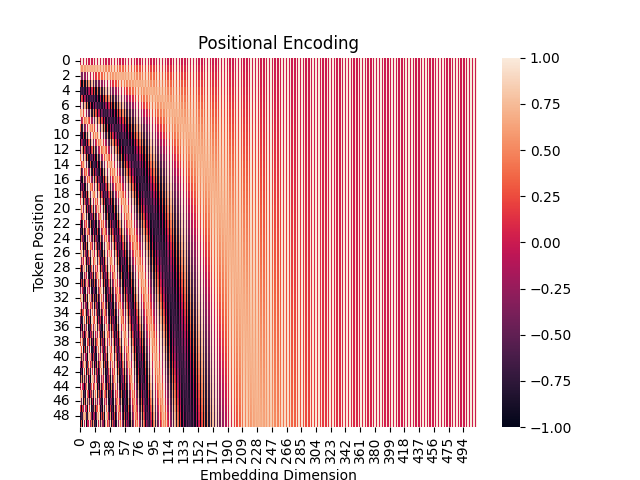
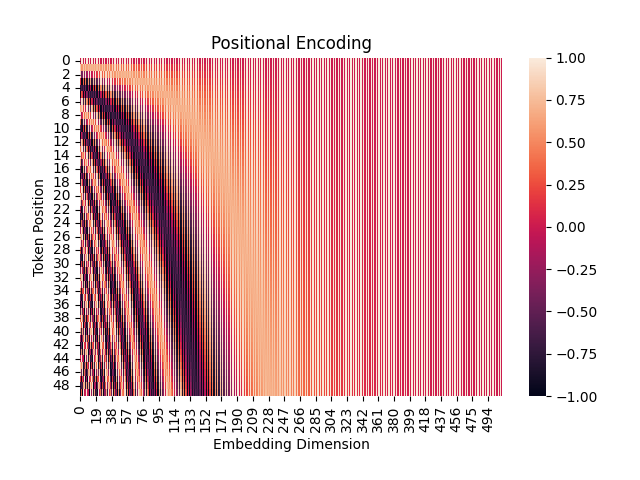
increased bottom margins on images

diff --git a/plot.py b/plot.py
@@ -23,6 +23,7 @@ def plot_losses():
     sns.lineplot(train_df, x=0, y=1, label='Train Loss')
     ax = sns.lineplot(valid_df, x=0, y=1, label='Validation Loss')
     ax.set(xlabel='Epoch', ylabel='Loss', title='Training and Validation Losses')
+    plt.subplots_adjust(bottom=0.15)
     plt.savefig(os.path.join(PATH, 'losses.png'))
     plt.show()
 
@@ -36,6 +37,7 @@ def plot_lr():
     ax = sns.lineplot(lr_df, x=0, y=1)
     ax.set(xlabel='Epoch', ylabel='Learning Rate',
            title='Learning Rate Schedule')
+    plt.subplots_adjust(bottom=0.15)
     plt.savefig(os.path.join(PATH, 'lr.png'))
     plt.show()
 
@@ -50,6 +52,7 @@ def plot_bleu():
     ax = sns.lineplot(bleu_df, x=0, y=1)
     ax.set(xlabel='Epoch', ylabel='BLEU Score',
            title='Validation BLEU Score')
+    plt.subplots_adjust(bottom=0.15)
     plt.savefig(os.path.join(PATH, 'bleu.png'))
     plt.show()
 
@@ -61,6 +64,7 @@ def plot_positional_encoding():
 
     ax = sns.heatmap(pos_encoding)
     ax.set(xlabel='Embedding Dimension', ylabel='Token Position', title='Positional Encoding')
+    plt.subplots_adjust(bottom=0.175, right=0.95)
     plt.savefig(os.path.join('docs', 'positional_encoding.png'))
     plt.show()
 
